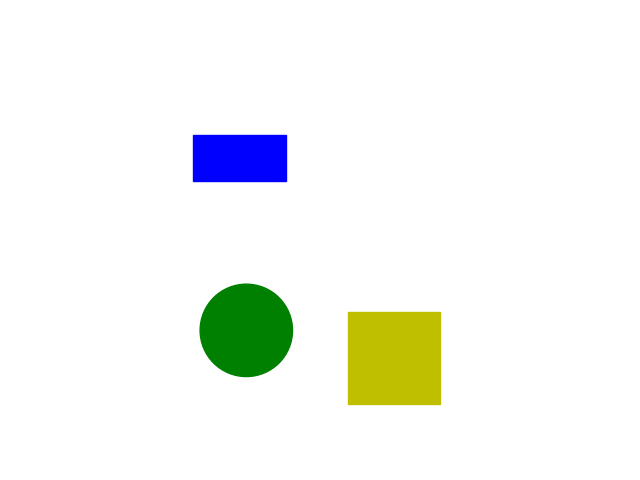
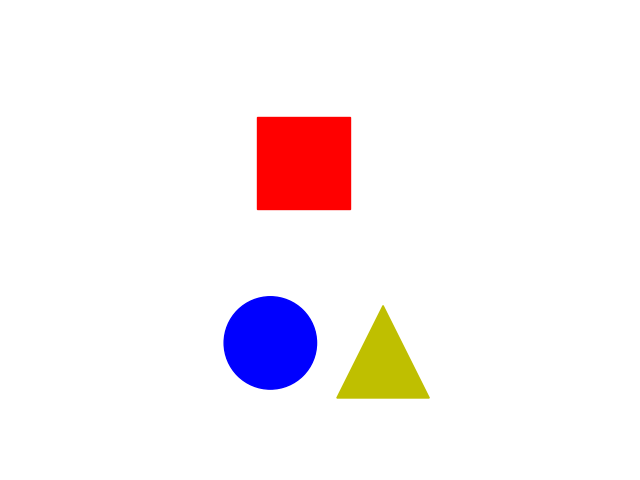
frontend and static asset changes

Changed region(s): [[0.2812, 0.2188, 0.5625, 0.4375], [0.3125, 0.5625, 0.5, 0.8125], [0.5312, 0.625, 0.6875, 0.8438]]

diff --git a/templates/home.html b/templates/home.html
@@ -44,23 +44,23 @@
         <script>
           // Get the modal
           var modal = document.getElementById("myModal");
-          
+
           // Get the button that opens the modal
           var btn = document.getElementById("myBtn");
-          
+
           // Get the <span> element that closes the modal
           var span = document.getElementsByClassName("close")[0];
-          
-          // When the user clicks the button, open the modal 
+
+          // When the user clicks the button, open the modal
           btn.onclick = function() {
             modal.style.display = "block";
           }
-          
+
           // When the user clicks on <span> (x), close the modal
           span.onclick = function() {
             modal.style.display = "none";
           }
-          
+
           // When the user clicks anywhere outside of the modal, close it
           window.onclick = function(event) {
             if (event.target == modal) {
@@ -71,7 +71,7 @@
       </div>
 
 
-      
+
       <div class="form">
       <button id="submit-btn" onclick="signOut()" class="h-fit rounded-lg self-end bg-brand-purple text-white font-bold font-quicksand px-7 py-2 text-center border-2 border-transparent hover:border-brand-purple hover:bg-white hover:text-brand-purple duration-200 ease-linear" id="sendButton" type="button">Sign in as Researcher</button>
       <script>
@@ -85,7 +85,7 @@
       <section class="bg-[#FCFCFE] w-1/3 max-w-[30%] overflow-x-hidden scroll-smooth fixed top-16 bottom-0 overflow-y-visible border-r-2 border-gray-200 right-0" id="chatSection">
         <nav class="px-7 py-3 bg-white font-quicksand h-20 flex justify-between items-center border-y border-gray-200 border-r-2 fixed top-16 w-1/3 max-w-[30%]">
           <div class="flex gap-5 items-center">
-            <img class="rounded-full w-14 h-14 object-cover" id="display-picture" src="images/profile-1.jpg" />
+            <img class="rounded-full w-14 h-14 object-cover" id="display-picture" src="{% static 'images/favicon.ico' %}" />
             <div class="flex flex-col gap-1">
               <h3 class="font-bold font-quicksand text-[#101955]" id="nickname"></h3>
               <!-- <p class="flex w-fit gap-2 items-center justify-center font-bold text-[13px] px-3 py-0.5 bg-[#ECFCF5] text-[#356C49] rounded-xl">
@@ -111,7 +111,7 @@
       </section>
       <section class="w-full max-w-full h-screen bg-gray-100 relative mr-[30%] flex flex-col">
         <div class="flex justify-center items-center h-full">
-          <iframe src="https://trinket.io/embed/python/016b1b55c4?outputOnly=true&runOption=run" width="100%" height="850" frameborder="0" marginwidth="0" marginheight="0" allowfullscreen></iframe>
+          <img src="{% static 'images/map0.png' %}">
         </div>
         <footer class="flex gap-14 font-bold font-quicksand h-20 bg-gray-200 flex justify-center items-center w-full">
           <!-- <h3 class="font-semibold font-quicksand text-lg">Footer</h3> -->
@@ -129,4 +129,3 @@
     <script src="{% static 'js/chat.js' %}"></script>
   </body>
   </html>
-

diff --git a/assets/matplotlib_map.py b/assets/matplotlib_map.py
@@ -1,0 +1,113 @@
+import matplotlib.pyplot as plt
+import numpy as np
+from random import randint, choice
+from math import floor, ceil
+
+def run():
+    #can be changed depending on screen size etc. code should be robust enough to account for changing values
+    maxwidth = 1000
+    maxheight = 1000
+    shapesToChoose = ["circle","square","rectangle","triangle"]
+    colours = ["g","b","r","y"]
+    shapes = []
+    amountOfShapes = 3
+    # should each shape/colour be distinct (just some examples of restrictions that researchers can define
+    distinctShape = True
+    distinctColour = True
+    #define the size of the shapes note: can be changed later, right now it depends on the screen size
+    size = ((1/ceil(amountOfShapes/2))*maxwidth/2)
+    # create grid
+    plt.axes()
+
+    # split the grid into equal parts to place shapes
+    # split screen into two, place floor(n/2) shapes in the top half and ceil(n/2) shapes in the bottom half
+    # note: this will look very ugly for high amounts of shapes we are only splitting by height once, will extend later
+    # we assume we are placing two or more shapes
+    shapesCoordRange = [] #keep track of the coordinates to place the shapes
+    tempH = maxheight/2  # halfway up the screen (for now)
+    amountTop = floor(amountOfShapes/2)  # amount of shapes to place in the top
+    amountBot = ceil(amountOfShapes/2)  # amount of shapes to place in the bottom
+    incrementTop = maxwidth/amountTop   # how much space each shape gets in the top
+    incrementBot =  maxwidth/amountBot  # how much space each shapes gets in the bottom
+
+    #place the first shape
+    shapesCoordRange.append((0,incrementTop,tempH,maxheight))
+    placed = 1
+
+    # find the coords for the top shapes
+    # loop until we place every shape we need to in the top
+    while(placed != amountTop):
+        # append the tuple of the range of coordinates to list where:
+        # (startX,endX,startY,endY)
+        shapesCoordRange.append((shapesCoordRange[-1][1],shapesCoordRange[-1][1]+incrementTop,tempH,maxheight))
+        placed += 1
+
+    #place the first shape on the bottom row
+    shapesCoordRange.append((0,incrementBot,0,tempH))
+    placed += 1
+
+    #the same but for the bottom row
+    while(placed != amountOfShapes):
+        shapesCoordRange.append((shapesCoordRange[-1][1],shapesCoordRange[-1][1]+incrementBot,0,tempH))
+        placed += 1
+
+    #create shape objects
+    # loop throught the shape coordinate ranges in the list
+    # place the shape somewhere randomly withing the range of the two integers for x and y
+    # <------------- extended to place any of threee shapes and pick one of the 4 random colours,
+    # can be made better by using objects --------->
+    for shapeCoord in shapesCoordRange:
+        # pick random shape and colour from the lists of available
+        shape = choice(shapesToChoose)
+        colour = choice(colours)
+        # if the researcher instructs each shape to be different...
+        if (distinctShape):
+            shapesToChoose.remove(shape)
+        # if the researcher instructs each colour to be different...
+        if (distinctColour):
+            colours.remove(colour)
+        # if using python version predating 3.10 uncomment this (switch statements not supported in older versions)
+        """if shape == "circle":
+            newShape = plt.Circle((randint(shapeCoord[0]+size/2,shapeCoord[1]-size/2), randint(shapeCoord[2]+size/2,shapeCoord[3]-size/2)), size/2, fc=colour)
+        elif shape == "rectangle":
+            newShape = Rectangle((randint(shapeCoord[0],shapeCoord[1]-size), randint(shapeCoord[2],shapeCoord[3]-size/2)), size, size/2, fc=colour)
+        elif shape == "square":
+            newShape = Rectangle((randint(shapeCoord[0],shapeCoord[1]-size),randint(shapeCoord[2],shapeCoord[3]-size)), size, size, fc=colour)
+
+        shapes.append(newShape)"""
+        match shape:
+            case "circle":
+                newShape = plt.Circle((randint(shapeCoord[0]+size/2,shapeCoord[1]-size/2), randint(shapeCoord[2]+size/2,shapeCoord[3]-size/2)), radius = size/2, color = colour)
+            case "rectangle":
+                newShape = plt.Rectangle((randint(shapeCoord[0],shapeCoord[1]-size), randint(shapeCoord[2],shapeCoord[3]-size/2)), width = size, height = size/2, color = colour)
+            case "square":
+                newShape = plt.Rectangle((randint(shapeCoord[0],shapeCoord[1]-size),randint(shapeCoord[2],shapeCoord[3]-size)), width = size, height = size, color = colour)
+            case "triangle":
+                # we need the three coordinates for the point of the triangle then make a polygon with those points
+                tempx = randint(shapeCoord[0],shapeCoord[1]-size)
+                tempy = randint(shapeCoord[2],shapeCoord[3]-size)
+                p = np.array([[tempx,tempy],[tempx+size,tempy],[tempx+size/2,tempy+size]])
+                newShape = plt.Polygon(p[:3,:],color=colour)
+        shapes.append(newShape)
+
+    #add shapes to grid
+    for i in shapes:
+        plt.gca().add_patch(i)
+
+    # turn off axis labels and 'zoom' out
+    plt.axis('off')
+    plt.axis('scaled')
+
+    #define axis limits
+    plt.xlim([0, maxwidth])
+    plt.ylim([0,maxheight])
+    return plt
+
+#not particularly modular or efficient
+for i in range(10):
+    generatedMap = run()
+    name = "map"+str(i)+".png"
+    generatedMap.savefig("images/"+name)
+    generatedMap.clf()
+
+
